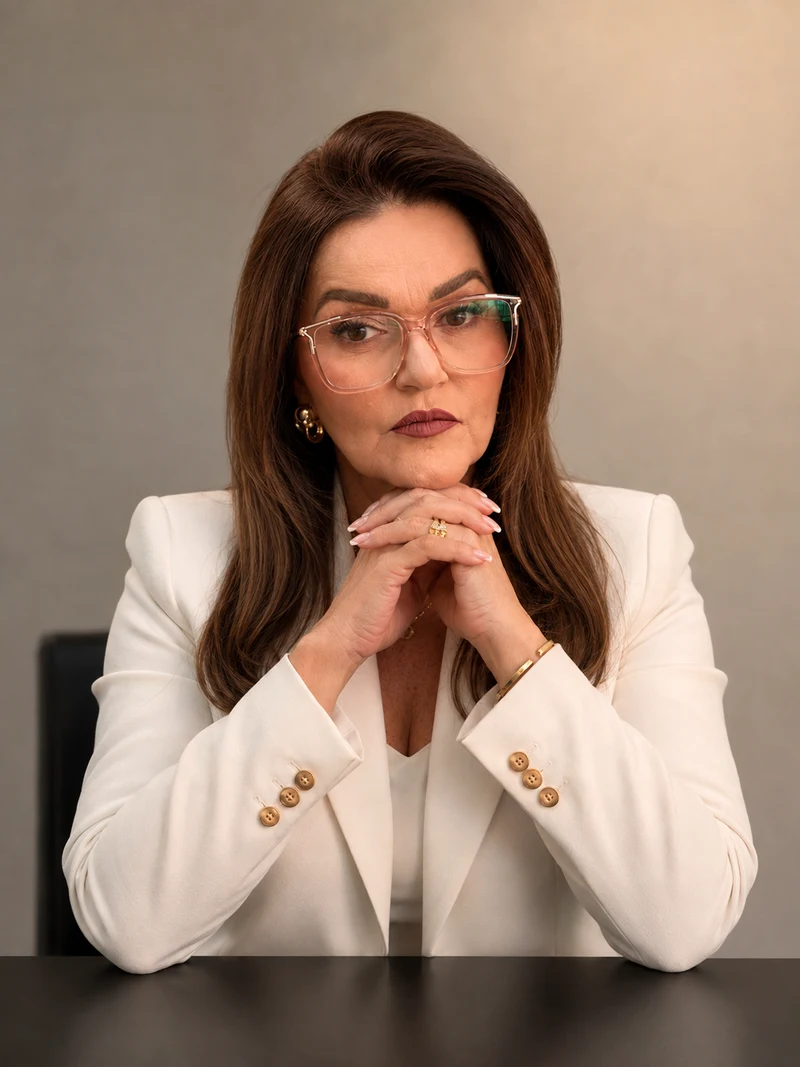
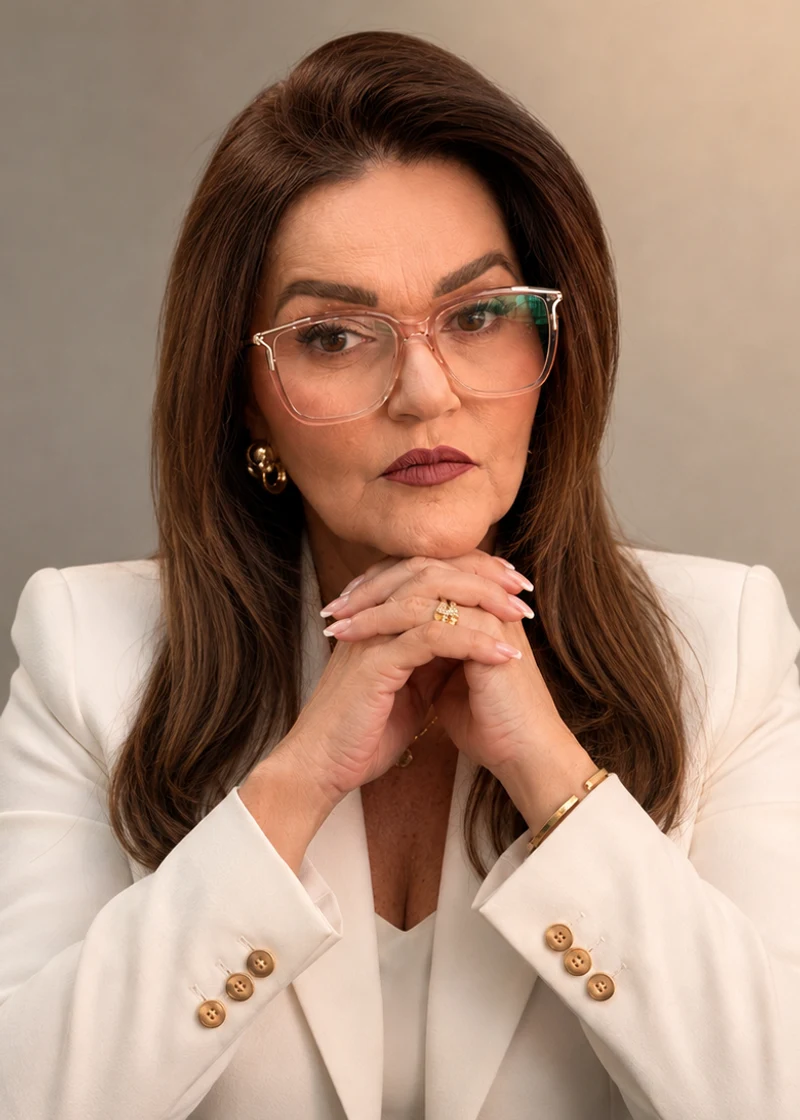
Padroniza retratos e completa perfis de Pedro e Rubeo

diff --git a/assets/novo-site/site.js b/assets/novo-site/site.js
@@ -69,8 +69,8 @@
  });
  const profiles = {
   welvia:{"name":"Dra. Wélvia Moraes de Queiroz Ribeiro","role":"Advogada","registration":"OAB 78.491","areas":"Direito Civil, Previdenciário, Trabalhista e Tributário","bio":"Graduada em Direito desde 2018, cursa pós-graduação em Direito Tributário e em Direito Civil e Processo Civil.\n\nAcredita em uma advocacia próxima do cliente, com escuta atenta e orientações claras. Atua com responsabilidade e dedicação na defesa de direitos, buscando soluções adequadas às particularidades de cada caso."},
-  pedro:{name:'Dr. Pedro Paulo Borges Souza',role:'Sócio coordenador',bio:'Coordena a Assessoria Jurídica Empresarial e Previdenciária da BFS, com atuação na consultoria corporativa e na defesa de benefícios em instâncias administrativas e judiciais.'},
-  rubeo:{name:'Dr. Rúbeo Carlos da Silva',role:'Sócio coordenador',bio:'Integra a coordenação da BFS Advogados, com atuação em Direito Previdenciário, Cível, Família e Sucessões e atendimento próximo aos clientes.'},
+  pedro:{"name":"Dr. Pedro Paulo Borges Souza","role":"Sócio coordenador","registration":"OAB/GO 58.778","areas":"Assessoria Jurídica Empresarial, Direito Previdenciário e Direito Tributário","bio":"Com seis anos de atuação, presta assessoria jurídica empresarial completa, com atendimento personalizado a empresas de diferentes segmentos.\n\nTambém atua em Direito Previdenciário. Ao longo de sua atuação no escritório, já obteve a concessão de mais de 500 benefícios junto ao INSS."},
+  rubeo:{"name":"Dr. Rúbeo Carlos da Silva","role":"Sócio coordenador","registration":"OAB/GO 25.211","areas":"Direito Previdenciário e Direito Cível","bio":"Formado em Direito pela Universidade Salgado de Oliveira, é especialista em Direito Previdenciário.\n\nAtua nas áreas previdenciária e cível."},
   gildo:{name:'Dr. José Gildo dos Santos',role:'Decano e consultor sênior',bio:'Formado pela Universidade Federal de Goiás em 1983, tem mais de 40 anos de trajetória jurídica, com experiência em Direito do Trabalho e Direito Desportivo.'}
  };
  const dialog = document.querySelector('#profile-dialog');
@@ -124,3 +124,4 @@
   status.append(fallback, document.createTextNode('.')); status.hidden = false;
  });
 })();
+

diff --git a/assets/novo-site/layout.css b/assets/novo-site/layout.css
@@ -57,3 +57,6 @@ main .section{min-height:0;padding-block:var(--section-space)}
 @media(max-width:760px){.banca-art{right:-40%;opacity:.16}}
 
 .profile-dialog .profile-registration{font-size:13px;margin-bottom:12px}.profile-dialog .profile-areas{font-size:14px;line-height:1.6;margin-bottom:18px}#profile-bio{white-space:pre-line}
+
+/* Equal portrait frames and consistent image alignment at every viewport. */
+.team-grid .profile{min-width:0}.team-grid .profile-portrait{display:block;width:100%;height:auto;aspect-ratio:5/7;padding:0;margin:0;border:0}.team-grid .profile-portrait>img{display:block;width:100%;height:100%;object-fit:cover;object-position:center top}
